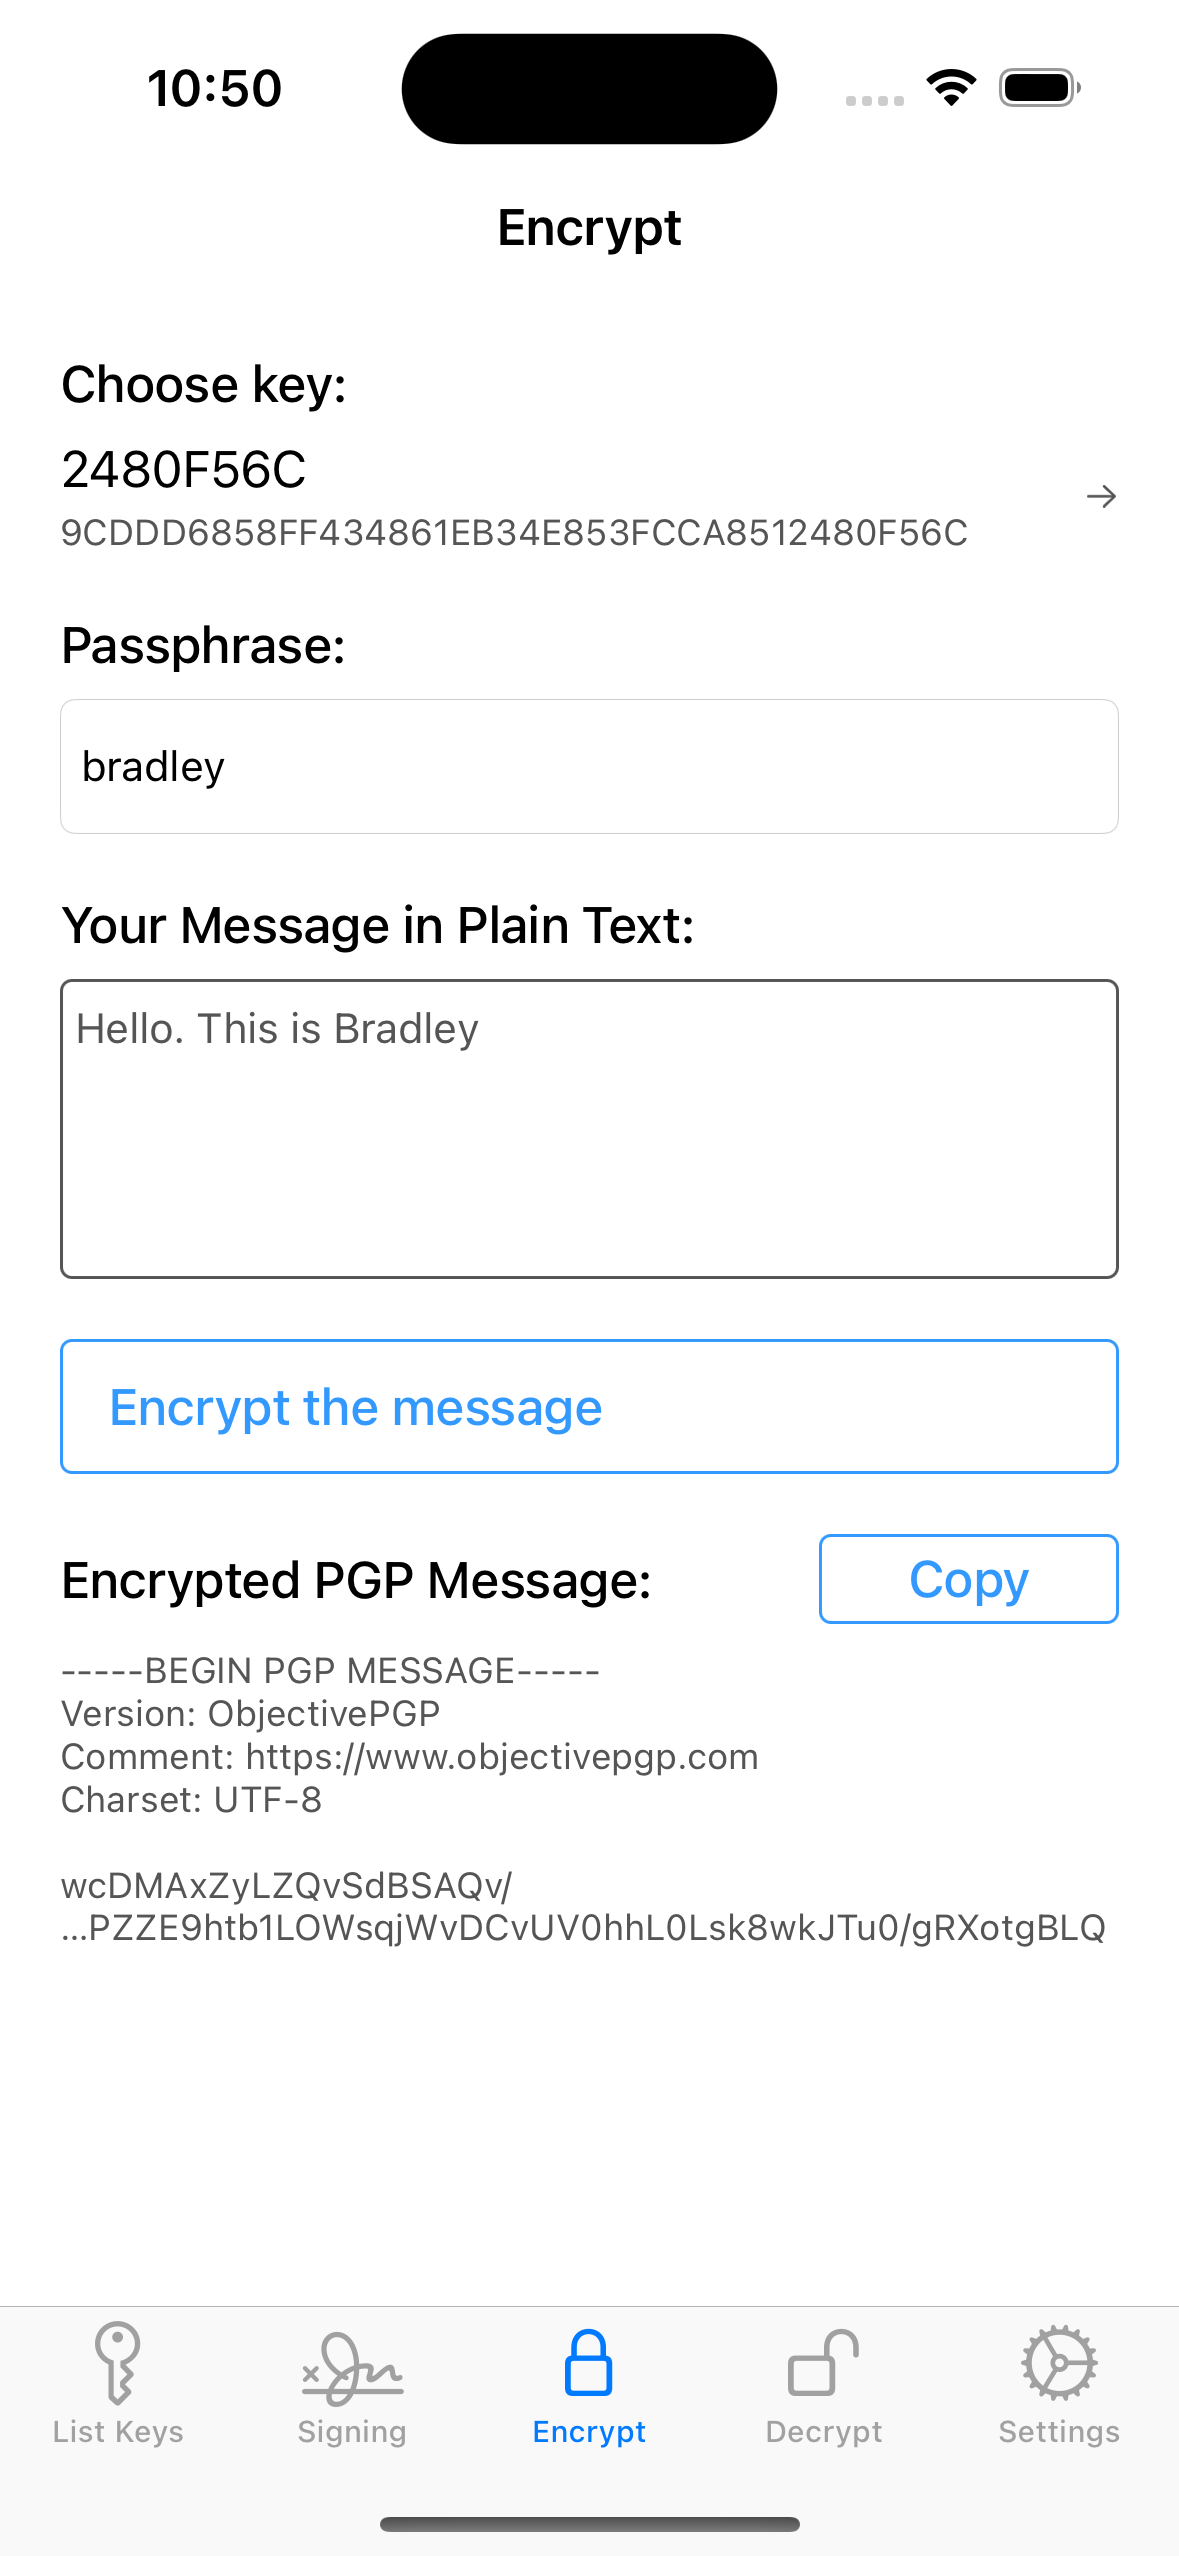
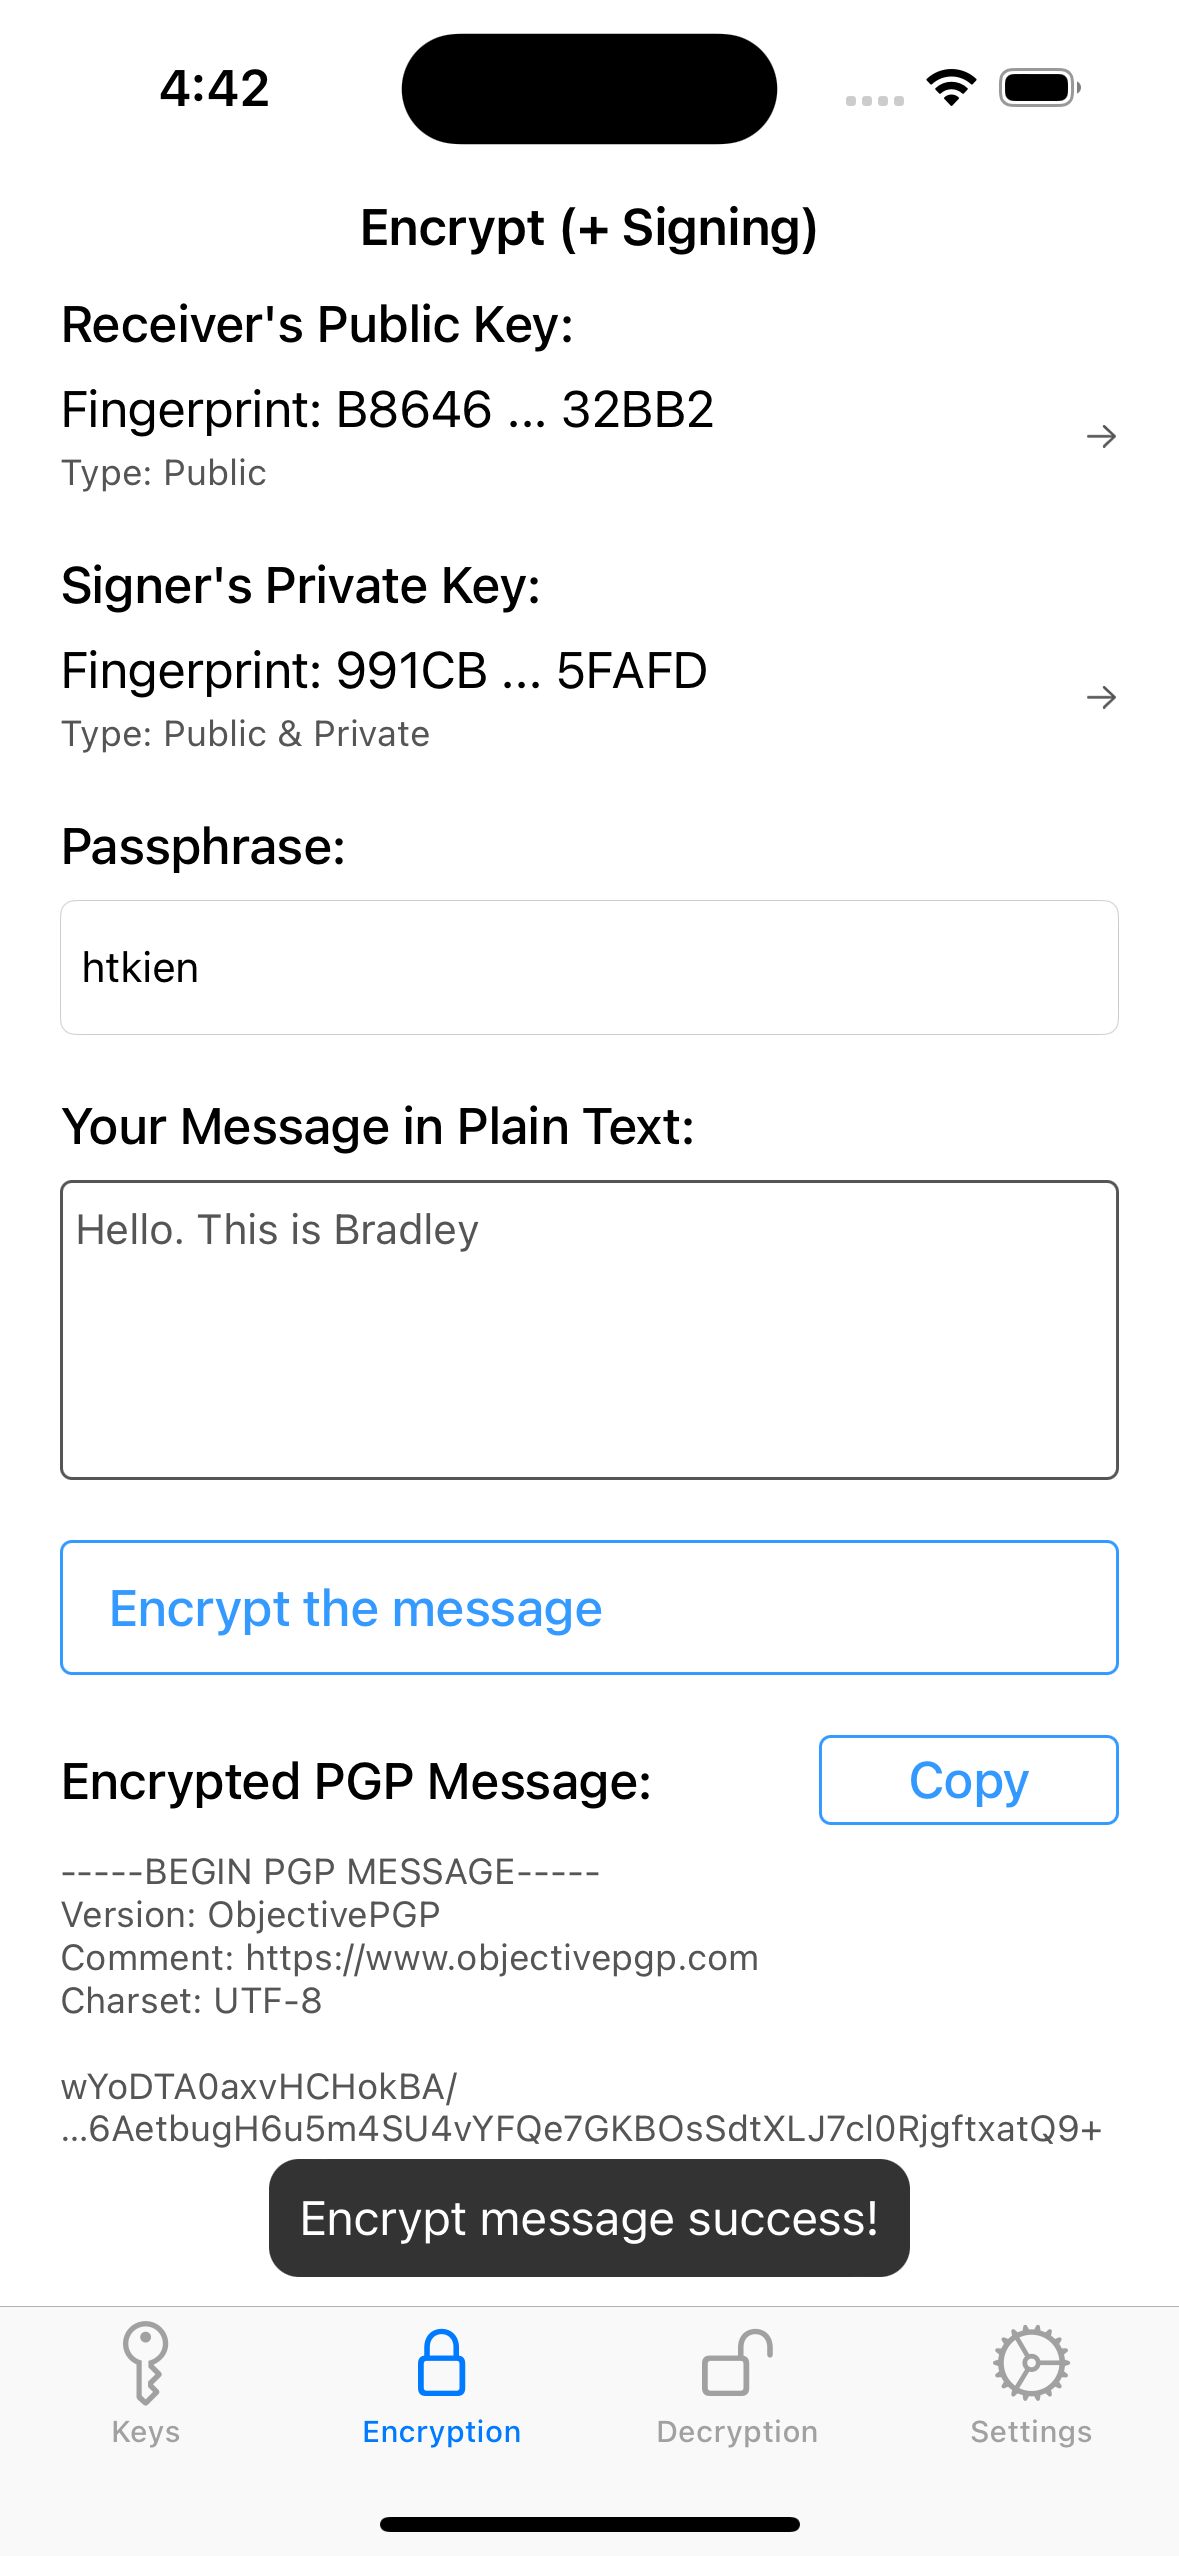
Finish encrytion & decryption flows

diff --git a/PGP-example/Classes/Scenes/KeyModule/ListKeys/ListKeysViewController.swift b/PGP-example/Classes/Scenes/KeyModule/ListKeys/ListKeysViewController.swift
@@ -7,6 +7,8 @@
 //
 
 import UIKit
+import MobileCoreServices
+import UniformTypeIdentifiers
 
 final class ListKeysViewController: BaseViewController {
     
@@ -44,7 +46,6 @@ private extension ListKeysViewController {
         let optionMenu = UIAlertController(title: nil,
                                            message: nil,
                                            preferredStyle: .actionSheet)
-        //        optionMenu.popoverPresentationController?.barButtonItem = sender
         
         let generateKey = UIAlertAction(title: "Generate Key Pair",
                                         style: .default) { [weak self] _ in
@@ -53,6 +54,13 @@ private extension ListKeysViewController {
             self?.navigationController?.pushViewController(vc, animated: true)
         }
         optionMenu.addAction(generateKey)
+        
+        let importKeyFromFile = UIAlertAction(title: "Import Keys from File",
+                                              style: .default) { [weak self] _ in
+            self?.importKeysFilePicker()
+            optionMenu.dismiss(animated: true)
+        }
+        optionMenu.addAction(importKeyFromFile)
         
         let addKeyFromClipboard = UIAlertAction(title: "Add Key from Clipboard",
                                                 style: .default) { [weak self] _ -> Void in
@@ -87,13 +95,22 @@ extension ListKeysViewController: PresenterToViewListKeysProtocol {
 
 private extension ListKeysViewController {
     func setupUI() {
-        title = "List Keys"
+        navigationItem.title = "List Keys"
         
         navigationItem.rightBarButtonItem = UIBarButtonItem(image: UIImage(systemName: "plus.app"), style: .plain, target: self, action: #selector(addKeyButtonTapped))
         
         tableView.register(KeychainTableViewCell.self)
         tableView.dataSource = self
         tableView.delegate = self
+    }
+    
+    func importKeysFilePicker() {
+//        let supportedTypes: [UTType] = [.data]
+//        let documentPicker = UIDocumentPickerViewController(forOpeningContentTypes: supportedTypes)
+        let documentPicker = UIDocumentPickerViewController(documentTypes: [kUTTypeData as String], in: .import)
+        documentPicker.delegate = self
+        documentPicker.allowsMultipleSelection = true
+        present(documentPicker, animated: true, completion: nil)
     }
 }
 
@@ -111,9 +128,19 @@ extension ListKeysViewController: UITableViewDataSource {
     }
 }
 
+// MARK: - UITableViewDelegate
+
 extension ListKeysViewController: UITableViewDelegate {
     func tableView(_ tableView: UITableView, didSelectRowAt indexPath: IndexPath) {
         let vc = KeyDetailBuilder.build(key: presenter.keys[indexPath.row])
         navigationController?.pushViewController(vc, animated: true)
+    }
+}
+
+// MARK: - UIDocumentPickerDelegate
+
+extension ListKeysViewController: UIDocumentPickerDelegate {
+    func documentPicker(_ controller: UIDocumentPickerViewController, didPickDocumentsAt urls: [URL]) {
+        presenter.requestDocumentPicker(didPickAt: urls)
     }
 }

diff --git a/PGP-example/Classes/Scenes/KeyModule/ListKeys/ListKeysPresenter.swift b/PGP-example/Classes/Scenes/KeyModule/ListKeys/ListKeysPresenter.swift
@@ -33,14 +33,17 @@ extension ListKeysPresenter: ViewToPresenterListKeysProtocol {
     func requestAddKey(_ rawText: String) {
         do {
             let importedKeys = try pgpService.importKey(rawText)
-            let isImportSuccess = !importedKeys.isEmpty
+            finishImportKey(!importedKeys.isEmpty)
             
-            if isImportSuccess {
-                requestNewListKeys()
-                view?.showImportKeySuccessMessage("Import success!")
-            } else {
-                view?.showImportKeySuccessMessage("Import failed!")
-            }
+        } catch {
+            view?.showError(error.localizedDescription)
+        }
+    }
+    
+    func requestDocumentPicker(didPickAt urls: [URL]) {
+        do {
+            let importedKeys = try pgpService.importKeys(fileUrls: urls)
+            finishImportKey(!importedKeys.isEmpty)
             
         } catch {
             view?.showError(error.localizedDescription)
@@ -56,5 +59,12 @@ extension ListKeysPresenter: ViewToPresenterListKeysProtocol {
 // MARK: - Private
 
 private extension ListKeysPresenter {
-    
+    func finishImportKey(_ isImportSuccess: Bool) {
+        if isImportSuccess {
+            requestNewListKeys()
+            view?.showImportKeySuccessMessage("Import success!")
+        } else {
+            view?.showImportKeySuccessMessage("Import failed!")
+        }
+    }
 }

diff --git a/PGP-example/Classes/Services/PGP/PGPService.swift b/PGP-example/Classes/Services/PGP/PGPService.swift
@@ -163,6 +163,29 @@ final class PGPService: IPGPService {
         saveKeys(readKeys)
         return readKeys
     }
+    
+    @discardableResult
+    func importKey(_ fileUrl: URL) throws -> [Keychain] {
+        var readKeys: [Keychain] = []
+        readKeys = try ObjectivePGP.readKeys(fromPath: fileUrl.path)
+        for key in readKeys {
+            try keyIsSupported(key: key)
+        }
+        
+        saveKeys(readKeys)
+        return readKeys
+    }
+    
+    @discardableResult
+    func importKeys(fileUrls: [URL]) throws -> [Keychain] {
+        var keys: [Keychain] = []
+        for fileUrl in fileUrls {
+            let key = try importKey(fileUrl)
+            keys.append(contentsOf: key)
+        }
+        
+        return keys
+    }
 }
 
 // MARK: - Private

diff --git a/PGP-example/Classes/Scenes/Encrypt/EncryptViewController.swift b/PGP-example/Classes/Scenes/Encrypt/EncryptViewController.swift
@@ -60,6 +60,7 @@ private extension EncryptViewController {
 extension EncryptViewController: PresenterToViewEncryptProtocol {    
     func showEncryptedMessage(_ encryptedMessage: String) {
         encryptedMessageLabel.text = encryptedMessage
+        makeToast("Encrypt message success!")
     }
     
     func showReceiverPublicKey(fingerprint: String, typeString: String) {

diff --git a/PGP-example/Classes/Scenes/KeyModule/ListKeys/ListKeysContract.swift b/PGP-example/Classes/Scenes/KeyModule/ListKeys/ListKeysContract.swift
@@ -15,6 +15,7 @@ protocol ViewToPresenterListKeysProtocol {
     
     func requestNewListKeys()
     func requestAddKey(_ rawText: String)
+    func requestDocumentPicker(didPickAt urls: [URL])
 }
 
 // MARK: Presenter -> View
